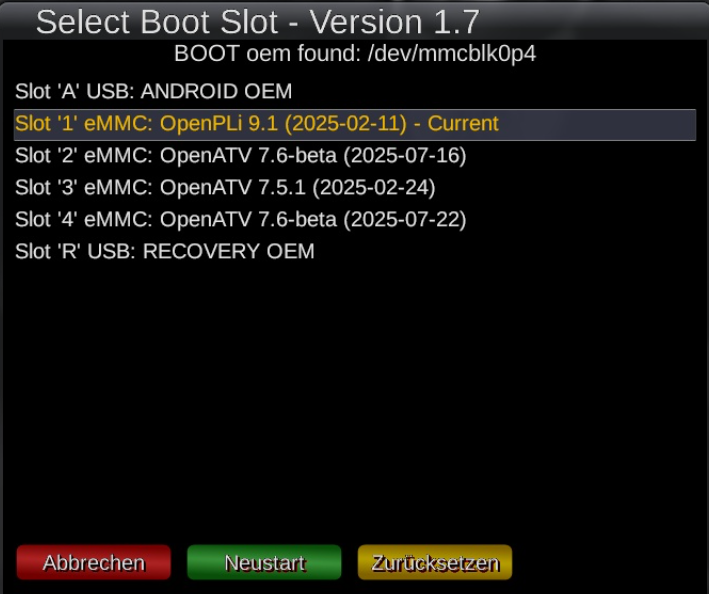
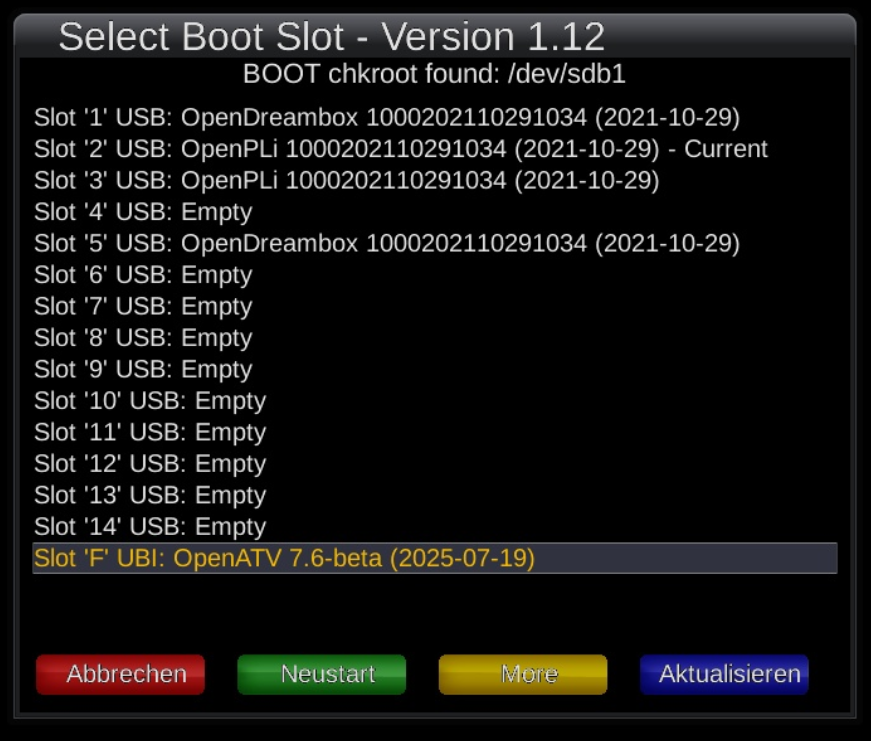
Update README.md

diff --git a/README.md b/README.md
@@ -15,12 +15,13 @@
 
 ## 🚀 Features
 
-- Calls backend script for slot switching
+- Uses backend (bash) script for slot switching
 - Dynamic list of available multiboot slots
 - Displays current active boot slot
 - Safe restart into the selected slot
 - Accessible via Plugin Menu, Extensions Menu, and Shutdown Menu
 - Clean and minimal user interface
+- Update the plugin from within the GUI (blue button)
 
 ---
 
@@ -35,7 +36,6 @@
 ## 🛠 Technical Details
 
 - **Plugin Type:** Enigma2 python plugin
-- **Backend Dependency:** `/usr/bin/multiboot-selector.sh` with executable permissions
 - Python Compatibility: Fully compatible with both Python 2 and Python 3 environments
 - **Tested On:** several images without built-in multiboot support
 - **Load Condition:** Only loads if `BoxInfo.getItem("HasChkrootMultiboot")` is `None` or unavailable (therefore it is not loaded on current OE Alliance images with integrated multiboot support)
@@ -62,21 +62,40 @@
 3. Install it via command line:
    - For .ipk (older OpenATV, OpenPLi, etc.):
       ```bash
-      opkg install /path/to/enigma2-plugin-extensions-multibootselector_*-r0_all.ipk
+      opkg install /tmp/enigma2-plugin-extensions-multibootselector_*.ipk
 
    - For .deb (DreamOS, NewNigma2, etc.):
       ```bash
-      apt install /path/to/enigma2-plugin-extensions-multibootselector_*-r0_all.deb
-4. Ensure backend script is available and executable ([current version](https://raw.githubusercontent.com/oe-alliance/oe-alliance-core/refs/heads/5.6-beta/meta-oe/recipes-kernel/chkroot/multiboot-selector/multiboot-selector.sh)):
-   ```bash
-   chmod +x /usr/bin/multiboot-selector.sh
-5. Restart Enigma2 GUI or reboot your device.
+      dpkg -i /tmp/enigma2-plugin-extensions-multibootselector_*.deb
+4. Restart Enigma2 GUI or reboot your device.
 
 ---
 
-### ❗ Limitations
+### 🔄 Built-in Updater
 
-- Requires an existing `/usr/bin/multiboot-selector.sh` script for functionality.
+Once the plugin is installed, you can update to the latest GitHub release directly from within the plugin interface.
+
+To update:
+1. Open the plugin
+2. Press the blue button
+3. Confirm update when prompted
+
+The plugin will automatically fetch the latest release from GitHub and install it.
+
+---
+
+### 🖥 Usage
+
+1. Launch the plugin from:
+   - Plugins Menu
+   - Extensions Menu
+   - Shutdown Menu
+2. Use the arrow keys to navigate and select the boot slot
+3. Use color buttons for the following actions:
+   - Red – Cancel / Exit
+   - Green – Boot selected image
+   - Yellow – More info
+   - Blue – Check for and install plugin updates
 
 ---
 
